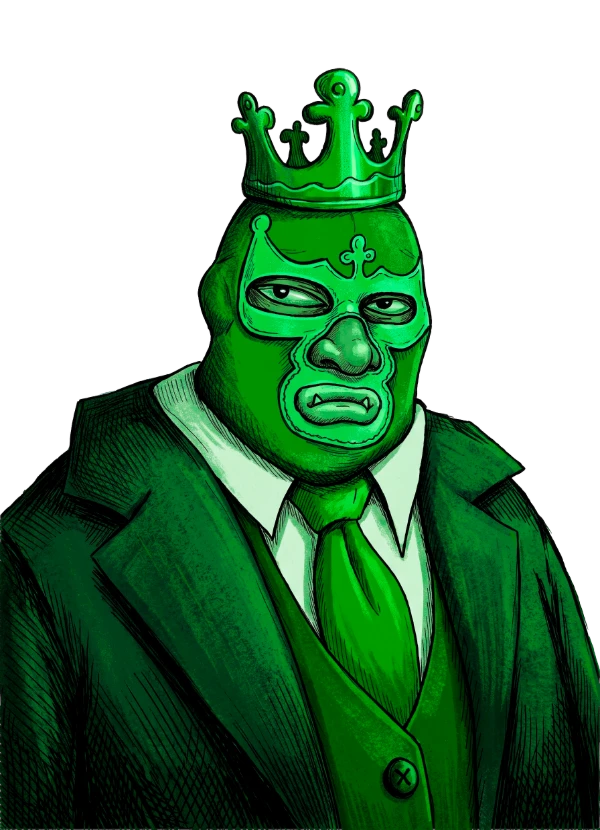
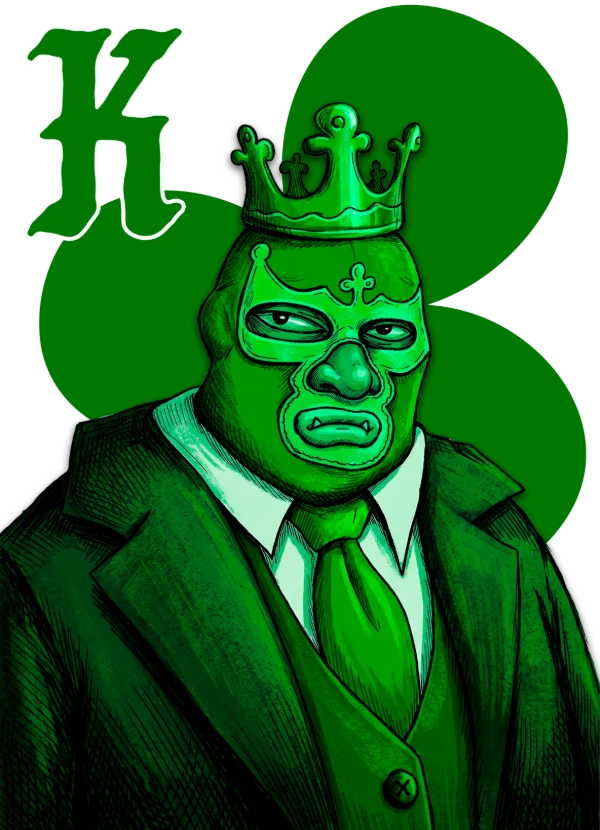
Artes novas dos Valetes e Reis, sem indice nos cantos

diff --git a/js/cartas.js b/js/cartas.js
@@ -1,10 +1,8 @@
 /* Desenho das cartas: fundo creme liso (ou um fundo desenhado, se houver em FUNDOS), naipes desenhados (arte/naipes)
    nas posições clássicas do baralho. As figuras com arte própria (arte/cartas/senhores/<rank>-<naipe>.webp) usam o desenho
-   no lugar do placeholder; a letra e o naipe dos cantos continuam por cima.
+   no lugar do placeholder; essas já trazem a letra e o naipe desenhados, então ficam sem o índice dos cantos.
    Para usar a arte final de uma carta, registre a imagem em SS.ARTE (chave = rank-naipe), como as de baixo.
-   A arte vem do arquivo de desenho do Leonardo (1792 × 2400, com a moldura esticada até quase a tela inteira): a tela toda
-   vira a carta (600 × 830), e o desenho fica na mesma posição do mockup dele. Se algo sair da carta, a conversão o encolhe
-   só o necessário para caber inteiro (dentro da borda preta). */
+   A arte vem do arquivo de desenho do Leonardo (1169 × 1621, já na proporção da carta): a tela toda vira a carta (600 × 830). */
 window.SS = window.SS || {};
 (function (SS) {
   'use strict';
@@ -16,6 +14,8 @@ window.SS = window.SS || {};
   SS.ARTE['J-ouros'] = 'arte/cartas/senhores/J-ouros.webp';
   SS.ARTE['K-copas'] = 'arte/cartas/senhores/K-copas.webp';
   SS.ARTE['K-paus'] = 'arte/cartas/senhores/K-paus.webp';
+  SS.ARTE['K-espadas'] = 'arte/cartas/senhores/K-espadas.webp';
+  SS.ARTE['K-ouros'] = 'arte/cartas/senhores/K-ouros.webp';
 
   // Cada naipe com a sua cor: Copas vermelho, Ouros amarelo, Paus verde, Espadas azul.
   const COR = { copas: '#d0202e', ouros: '#d49a06', paus: '#1c8a3a', espadas: '#1f55c8' };
@@ -29,7 +29,7 @@ window.SS = window.SS || {};
   // Borda preta na beirada da carta: a do desenho é fina demais (cerca de 1 px numa carta da mão) e sumia.
   const BORDA = '<rect x="2.2" y="2.2" width="195.6" height="275.6" rx="15" fill="none" stroke="#141414" stroke-width="4.5"/>';
   // Versão das imagens das cartas (trocar quando um arquivo mudar com o mesmo nome, para o navegador não usar o antigo).
-  const V_ARTE = '?v=9';
+  const V_ARTE = '?v=10';
 
   // Fundo da carta: o creme liso de sempre. Com fundos desenhados (arte/cartas/fundo-<letra>.webp, feitos no gabarito
   // arte/cartas/gabarito), ponha as letras deles aqui: cada carta pega sempre a mesma variação (rank + naipe).
@@ -101,7 +101,7 @@ window.SS = window.SS || {};
     else corpo = LAYOUT[c.rank].map(([x, y]) => pip(c.naipe, x, y, 34, y > 140)).join('');
     const svg = `<svg class="svg-carta" viewBox="0 0 200 280" xmlns="http://www.w3.org/2000/svg">
       ${fundo(chave)}
-      ${corpo}${arte || FUNDOS.length ? BORDA : ''}<g>${canto(c, arte)}</g><g transform="rotate(180 100 140)">${canto(c, arte)}</g></svg>`;
+      ${corpo}${arte || FUNDOS.length ? BORDA : ''}${arte ? '' : `<g>${canto(c, arte)}</g><g transform="rotate(180 100 140)">${canto(c, arte)}</g>`}</svg>`;
     if (!arte) cache[ck] = svg;
     return svg;
   }

diff --git a/index.html b/index.html
@@ -14,7 +14,7 @@
   <link rel="preload" href="arte/menu/papelao.webp" as="image">
   <link rel="preload" href="arte/menu/naipes.webp" as="image">
   <link rel="preload" href="arte/menu/logo.webp" as="image">
-  <link rel="stylesheet" href="estilo.css?v=202610301515">
+  <link rel="stylesheet" href="estilo.css?v=202610301606">
 </head>
 <body>
   <div id="palco">
@@ -67,20 +67,20 @@
   <div id="modal" hidden></div>
   <div id="dica" hidden></div>
 
-  <script defer src="js/idioma.js?v=202610301515"></script>
-  <script defer src="js/libs.js?v=202610301515"></script>
-  <script defer src="js/motor.js?v=202610301515"></script>
-  <script defer src="js/palhacos.js?v=202610301515"></script>
-  <script defer src="js/pesos.js?v=202610301515"></script>
-  <script defer src="js/bot.js?v=202610301515"></script>
-  <script defer src="js/cartas.js?v=202610301515"></script>
-  <script defer src="js/som.js?v=202610301515"></script>
-  <script defer src="js/dados3d.js?v=202610301515"></script>
-  <script defer src="js/decks.js?v=202610301515"></script>
-  <script defer src="js/regras.js?v=202610301515"></script>
-  <script defer src="js/rede.js?v=202610301515"></script>
-  <script defer src="js/decoracao.js?v=202610301515"></script>
-  <script defer src="js/tutorial.js?v=202610301515"></script>
-  <script defer src="js/interface.js?v=202610301515"></script>
+  <script defer src="js/idioma.js?v=202610301606"></script>
+  <script defer src="js/libs.js?v=202610301606"></script>
+  <script defer src="js/motor.js?v=202610301606"></script>
+  <script defer src="js/palhacos.js?v=202610301606"></script>
+  <script defer src="js/pesos.js?v=202610301606"></script>
+  <script defer src="js/bot.js?v=202610301606"></script>
+  <script defer src="js/cartas.js?v=202610301606"></script>
+  <script defer src="js/som.js?v=202610301606"></script>
+  <script defer src="js/dados3d.js?v=202610301606"></script>
+  <script defer src="js/decks.js?v=202610301606"></script>
+  <script defer src="js/regras.js?v=202610301606"></script>
+  <script defer src="js/rede.js?v=202610301606"></script>
+  <script defer src="js/decoracao.js?v=202610301606"></script>
+  <script defer src="js/tutorial.js?v=202610301606"></script>
+  <script defer src="js/interface.js?v=202610301606"></script>
 </body>
 </html>

diff --git a/js/interface.js b/js/interface.js
@@ -4784,6 +4784,7 @@ window.SS = window.SS || {};
   const BUILD = {
     n: 111, data: '30/10/2026',
     novidades: [
+      ['Artes novas de todos os Valetes e Reis (com o Rei de Espadas e o Rei de Ouros), com a letra e o naipe desenhados na própria arte', 'New art for every Jack and King (including the King of Spades and King of Diamonds), with the rank and suit drawn into the art itself'],
       ['As fichas EXTRA do Ás de Ouros viram um botão só, com um selinho dizendo quantas você tem', 'The Ace of Diamonds EXTRA tokens are now a single button, with a badge showing how many you have'],
       ['Ícone novo do dado no sorteio de quem começa, na área de testes e na mesa livre', 'New die icon in the who-goes-first roll, the test area and the free table'],
       ['Comprar com a ficha do Ás de Ouros não gasta mais ação (dá para usar até sem ações sobrando)', 'Drawing with the Ace of Diamonds token no longer spends an action (it works even with no actions left)'],
